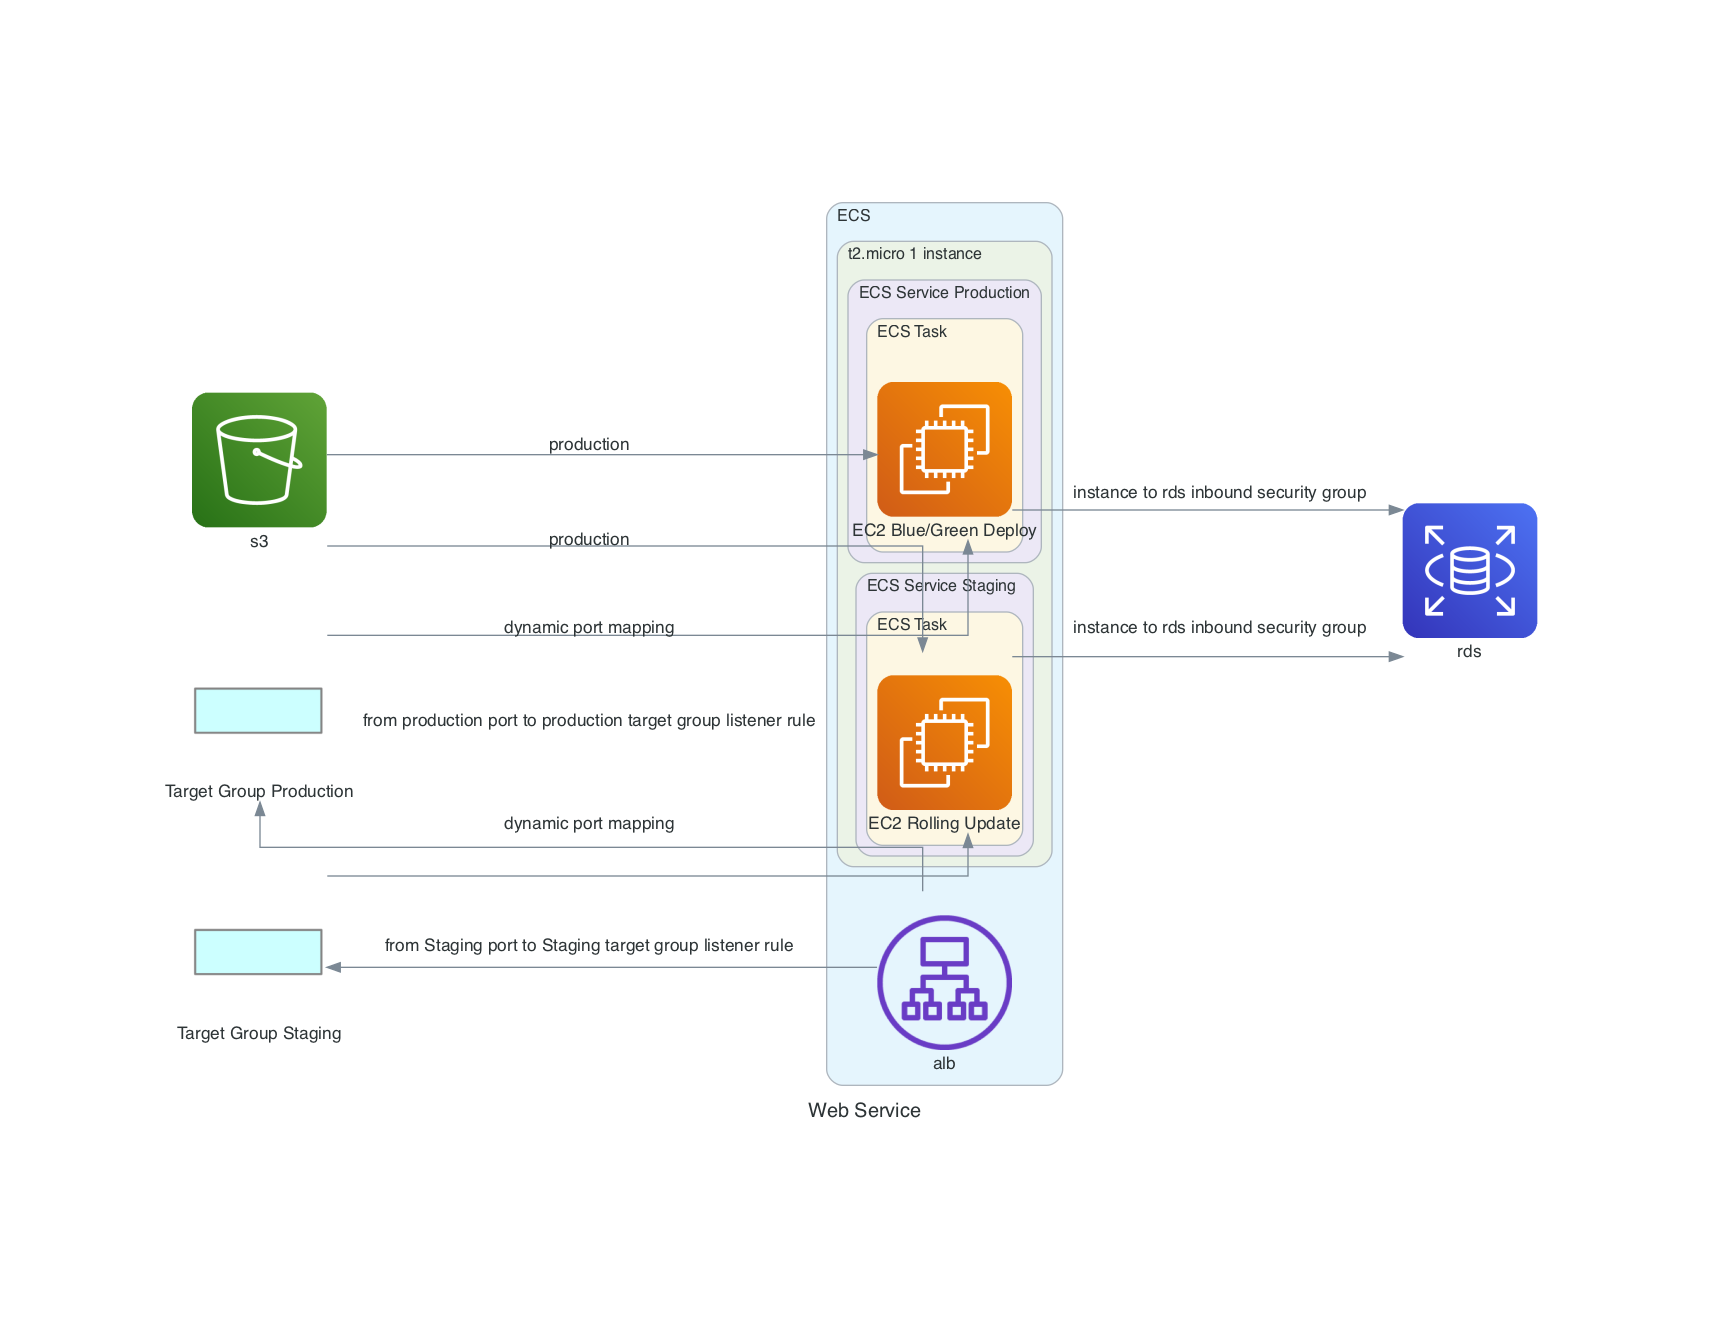
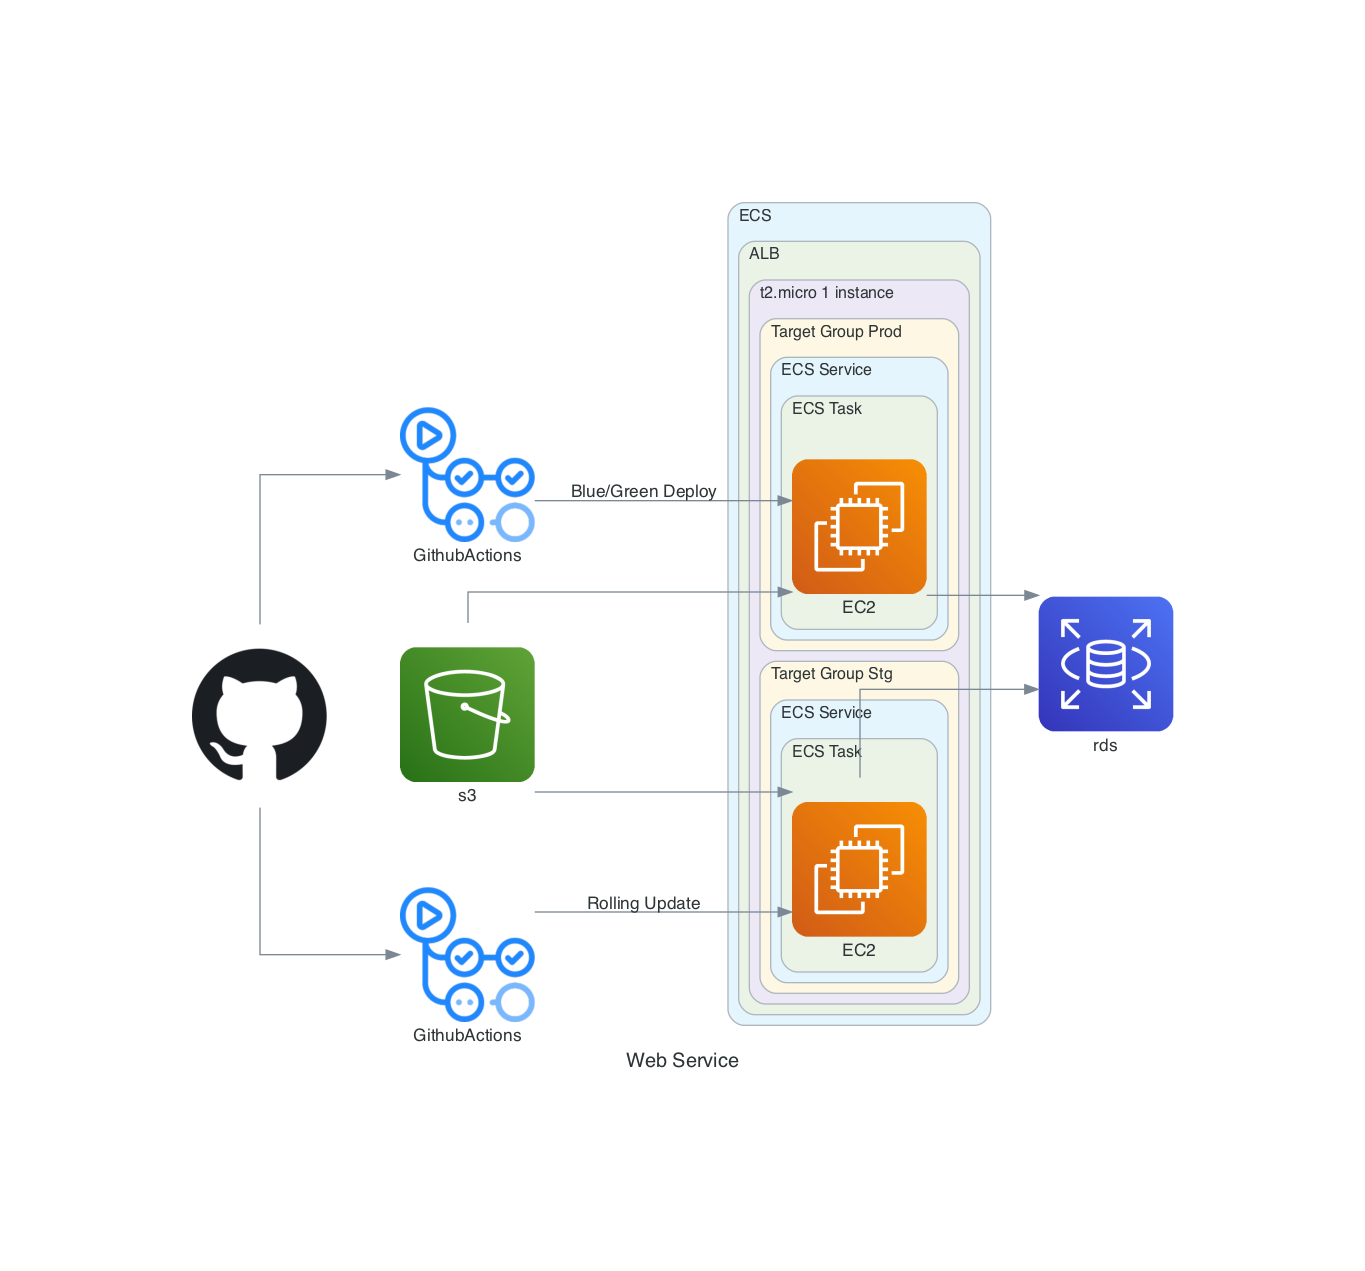
(chore)

Changed region(s): [[0.0923, 0.1534, 0.8923, 0.8592], [0.0923, 0.2762, 0.2154, 0.4296], [0.0923, 0.7671, 0.1846, 0.7978]]

diff --git a/diagram/diagram.py b/diagram/diagram.py
@@ -1,30 +1,26 @@
 from diagrams import Diagram, Cluster, Edge
-from diagrams.aws.compute import EC2, ECS
+from diagrams.aws.compute import EC2
 from diagrams.aws.database import RDS
-from diagrams.aws.network import ELB, ALB
 from diagrams.aws.storage import S3
-from diagrams.programming.flowchart import Action
+from diagrams.onprem.ci import GithubActions
+from diagrams.onprem.vcs import Github
 
 with Diagram("Web Service", show=False):
   s3 = S3("s3")
   rds = RDS("rds")
-  targetgroupproduction = Action("Target Group Production")
-  targetgroupstaging = Action("Target Group Staging")
-  edgeProduction = Edge(label="production")
-  edgeStaging = Edge(label="production")
-  edgeProductionPortToTargetGroup = Edge(label="from production port to production target group listener rule")
-  edgeStagingPortToTargetGroup = Edge(label="from Staging port to Staging target group listener rule")
+  github = Github("")
   with Cluster("ECS"):
-    alb = ALB("alb")
-    with Cluster("t2.micro 1 instance"):
-      with Cluster("ECS Service Production"):
-        with Cluster("ECS Task"):
-          prod = EC2("EC2 Blue/Green Deploy")
-      with Cluster("ECS Service Staging"):
-        with Cluster("ECS Task"):
-          stg = EC2("EC2 Rolling Update")
-    s3 >> edgeProduction >> prod
-    s3 >> edgeStaging >> stg
-    alb >> edgeProductionPortToTargetGroup >> targetgroupproduction >> Edge(label="dynamic port mapping") >> prod >> Edge(label="instance to rds inbound security group") >> rds
-    alb >> edgeStagingPortToTargetGroup >> targetgroupstaging >> Edge(label="dynamic port mapping") >> stg >> Edge(label="instance to rds inbound security group") >> rds
-
+    with Cluster("ALB"):
+      with Cluster("t2.micro 1 instance"):
+        with Cluster("Target Group Prod"):
+          with Cluster("ECS Service"):
+            with Cluster("ECS Task"):
+              prod = EC2("EC2")
+        with Cluster("Target Group Stg"):
+          with Cluster("ECS Service"):
+            with Cluster("ECS Task"):
+              stg = EC2("EC2")
+  github >> GithubActions("GithubActions") >> Edge(label="Blue/Green Deploy") >> prod >> rds
+  github >> GithubActions("GithubActions") >> Edge(label="Rolling Update") >> stg >> rds
+  s3 >>  prod
+  s3 >>  stg

diff --git a/readme.md b/readme.md
@@ -1,7 +1,11 @@
 # Getting Started
 
-1. Run `docker-compose up` command
+docker-compose up
 
-# infrastructure design
+# Generate infrastructure diagram
+
+yarn diagram
+
+# Infrastructure design
 
 ![](./diagram/web_service.png)
